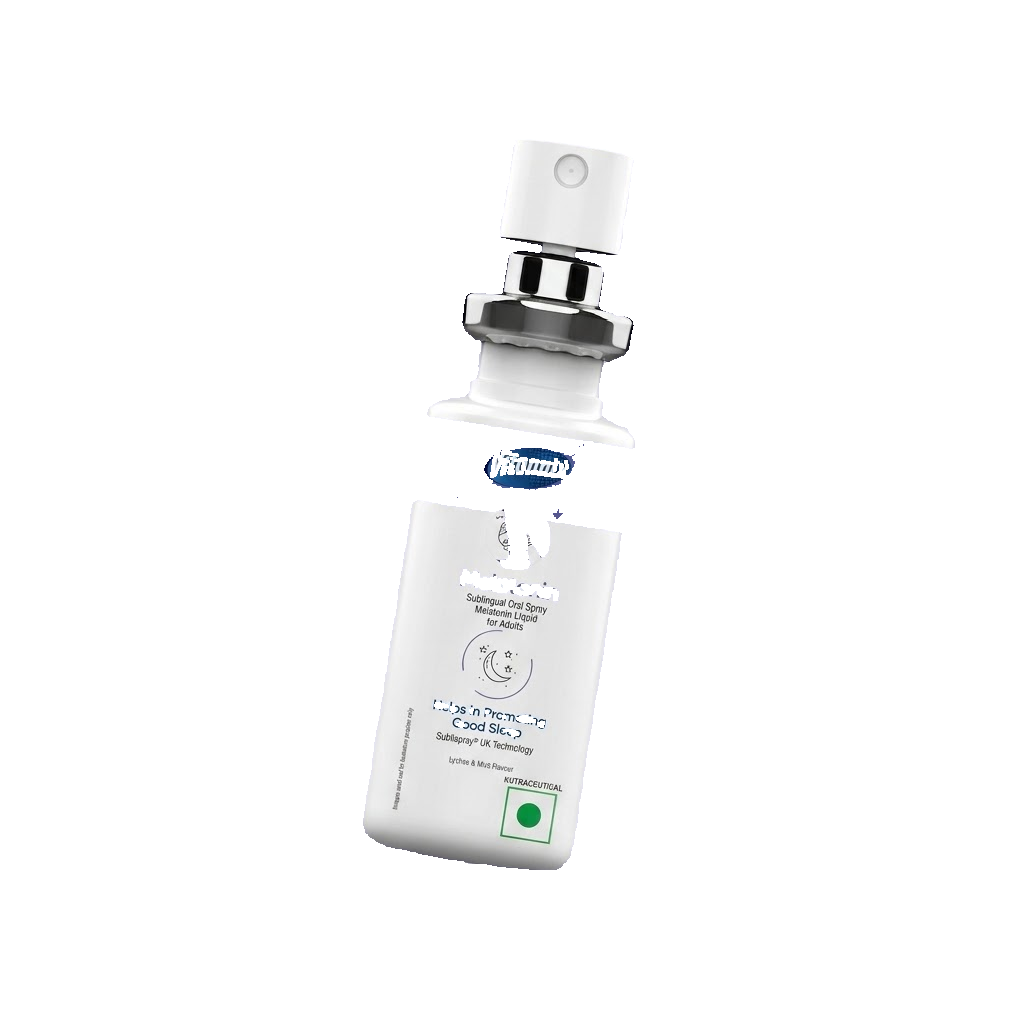
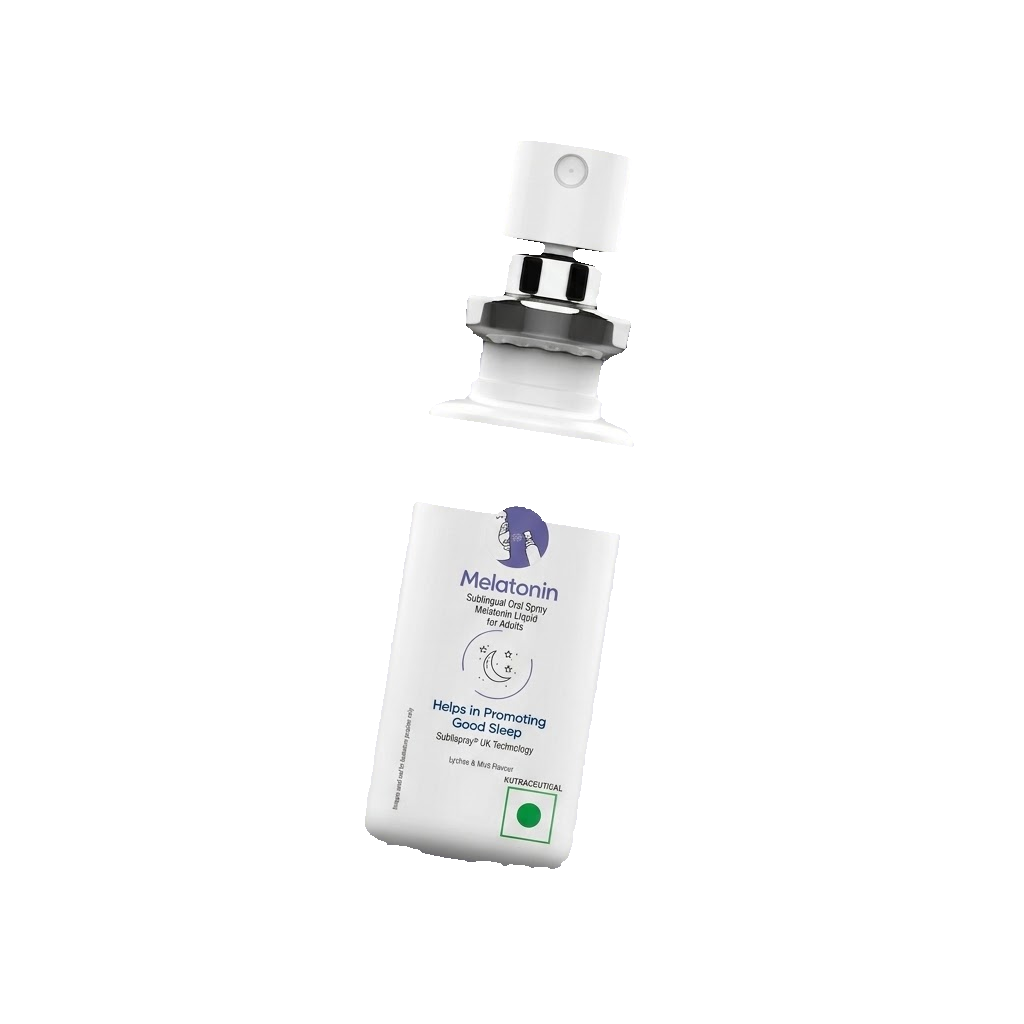
Fix bottle cutout bleeding + hero 3D depth effect
- Bottle: replaced Pillow RGB heuristic with HSV + flood-fill from edges approach;
  only removes pixels with purple hue (200-320°) that are connected to the image
  boundary — eliminates fringe without touching the white bottle body or chrome parts

- Hero background: replaced flat gradient with 4-layer depth system on a uniform
  deep base (#1c1a52): fine dot texture (22px grid), star field, central spotlight
  radial that brightens the content zone, corner vignette that pushes edges into
  shadow — creates the "textured corners, popped-up center" 3D illusion at all
  viewport widths (390px → 1920px)

diff --git a/src/sections/Hero.jsx b/src/sections/Hero.jsx
@@ -60,12 +60,13 @@ function Callout({ anchorX, anchorY, direction = 'right', text }) {
 }
 
 function Stars() {
-  const stars = Array.from({ length: 60 }, (_, i) => ({
+  // More stars, weighted toward edges where the background is darker
+  const stars = Array.from({ length: 90 }, (_, i) => ({
     id: i,
     top: `${(i * 137.5) % 100}%`,
     left: `${(i * 97.3) % 100}%`,
-    size: (i % 3) + 1,
-    opacity: 0.12 + (i % 5) * 0.08,
+    size: (i % 4 === 0) ? 2.5 : (i % 3 === 0) ? 1.5 : 1,
+    opacity: 0.10 + (i % 6) * 0.07,
   }))
   return (
     <div className="absolute inset-0 pointer-events-none overflow-hidden">
@@ -105,10 +106,30 @@ export default function Hero() {
       id="hero"
       className="relative min-h-screen flex items-center overflow-hidden px-6 py-20 md:py-0"
       style={{
-        background: 'linear-gradient(155deg, #1e2050 0%, #2e2c70 22%, #4a4490 45%, #7060b0 68%, #a898d4 100%)',
+        /* Deep base — uniform so the spotlight/vignette layers create all the depth */
+        background: '#1c1a52',
       }}
     >
+      {/* Layer 1: fine dot texture — subtlest near the bright center, most visible in dark corners */}
+      <div className="absolute inset-0 pointer-events-none" style={{
+        backgroundImage: 'radial-gradient(circle, rgba(185,179,232,0.22) 1px, transparent 1px)',
+        backgroundSize: '22px 22px',
+      }} />
+
+      {/* Layer 2: star field */}
       <Stars />
+
+      {/* Layer 3: central spotlight — lifts the content area, creates the "raised" illusion */}
+      <div className="absolute inset-0 pointer-events-none" style={{
+        background: [
+          'radial-gradient(ellipse 80% 70% at 50% 50%, rgba(72,62,168,0.95) 0%, rgba(48,42,120,0.6) 45%, transparent 72%)',
+        ].join(','),
+      }} />
+
+      {/* Layer 4: corner vignette — pushes edges into shadow, making the center pop */}
+      <div className="absolute inset-0 pointer-events-none" style={{
+        background: 'radial-gradient(ellipse 88% 82% at 50% 50%, transparent 32%, rgba(6,5,22,0.80) 100%)',
+      }} />
 
       <div className="relative z-10 w-full max-w-7xl mx-auto grid md:grid-cols-2 gap-10 lg:gap-16 items-center">
 
@@ -199,10 +220,10 @@ export default function Hero() {
           {...fadeUp(0.18, reduced)}
           className="relative flex items-center justify-center py-10 md:py-16"
         >
-          {/* Dark radial spotlight — keeps white bottle readable at all viewport widths */}
+          {/* Soft dark pool behind bottle — keeps it readable without fighting the vignette */}
           <div style={{
-            position: 'absolute', inset: '-20px', pointerEvents: 'none',
-            background: 'radial-gradient(ellipse 80% 75% at 50% 50%, rgba(15,14,50,0.65) 0%, rgba(15,14,50,0.2) 60%, transparent 100%)',
+            position: 'absolute', inset: '-10px', pointerEvents: 'none',
+            background: 'radial-gradient(ellipse 70% 65% at 50% 50%, rgba(12,10,40,0.45) 0%, transparent 100%)',
           }} />
 
           {/* Thin outline frame — bottle intentionally overflows it */}